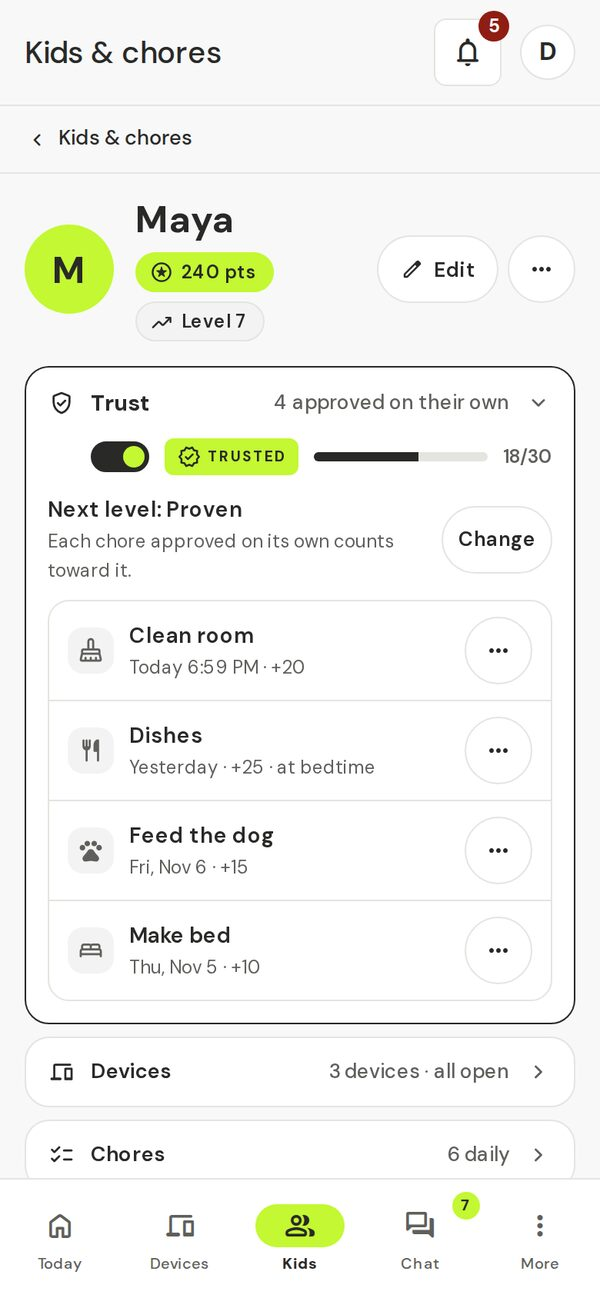
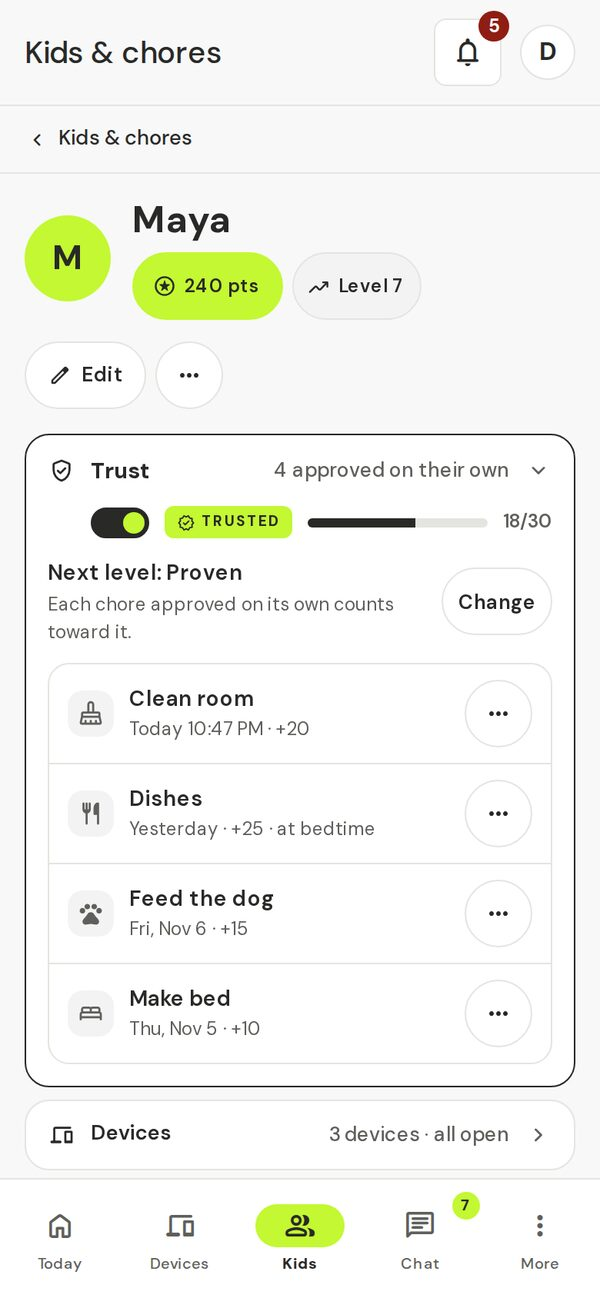
docs(guide): retake Today, kid, Needs you, Devices, Trust and Recap images after polish pass 5
Claude-Session: https://claude.ai/code/session_011K7jrVbDK9XkJbLGVTb23M

diff --git a/docs/guide/img/SHOTS.md b/docs/guide/img/SHOTS.md
@@ -47,3 +47,12 @@ Retaken 2026-11-08 for 2.8.0 declutter, mocked API (`scripts/shots/declutter`, l
 - `extras.jpg`: Retaken 2026-11-08 for 2.8.0 declutter, mocked API
 - `happy-hour-start.jpg`: Retaken 2026-11-08 for 2.8.0 declutter, mocked API
 - `site/img/today-hero.jpg`, `today-parent.jpg`, `needs-you.jpg`: Retaken 2026-11-08 for 2.8.0 declutter, mocked API
+
+Retaken 2026-11-08 after polish pass 5 (rail t@ and lime tile, 44px phone controls, Chat glyph, kid header), mocked API (`scripts/shots/declutter`, light, 1280x800 desktop or 390x844 phone at 2x resized to 600 wide, JPEG quality 82, focus ring cleared):
+- `today.jpg`: Retaken 2026-11-08, polish pass 5
+- `today-kid.jpg`: Retaken 2026-11-08, polish pass 5
+- `needs-you.jpg`: Retaken 2026-11-08, polish pass 5
+- `devices.jpg`: Retaken 2026-11-08, polish pass 5
+- `trust-kid.jpg`: Retaken 2026-11-08, polish pass 5
+- `recap.jpg`: Retaken 2026-11-08, polish pass 5
+- `site/img/today-hero.jpg`, `today-parent.jpg`, `needs-you.jpg`: Retaken 2026-11-08, polish pass 5
